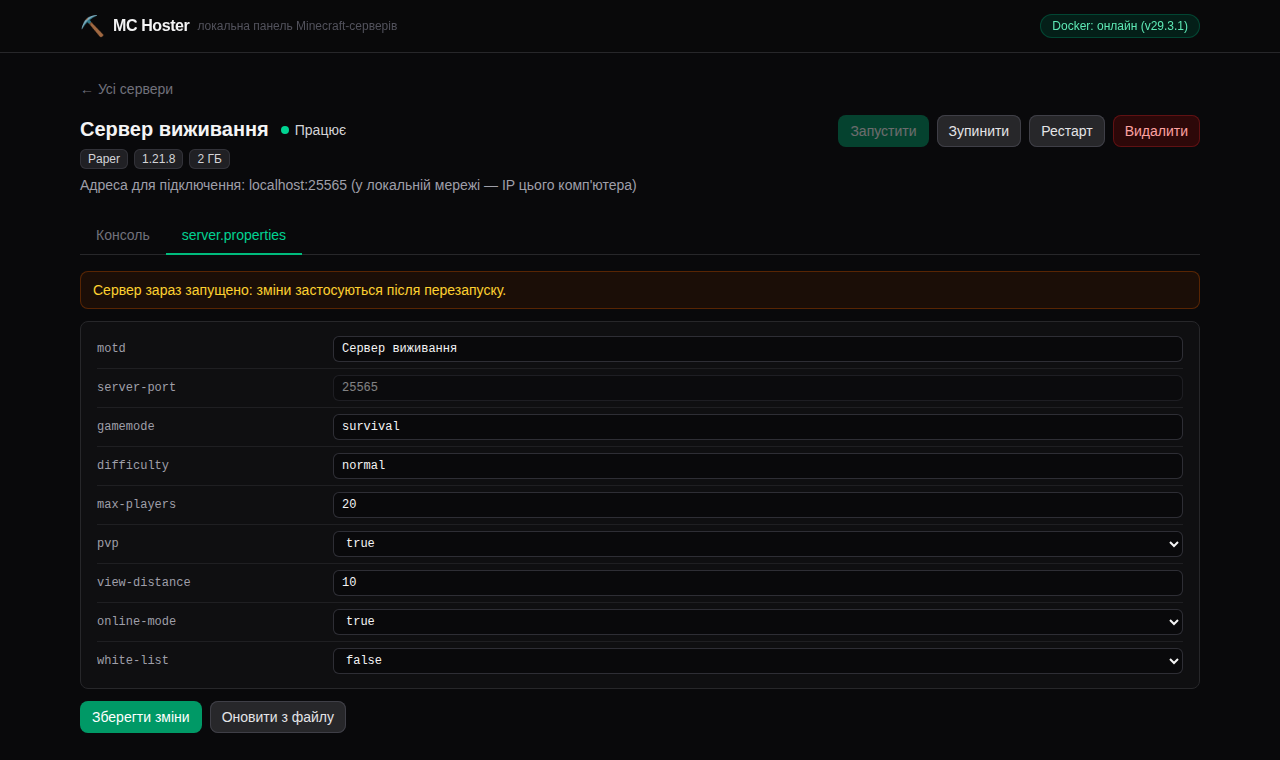
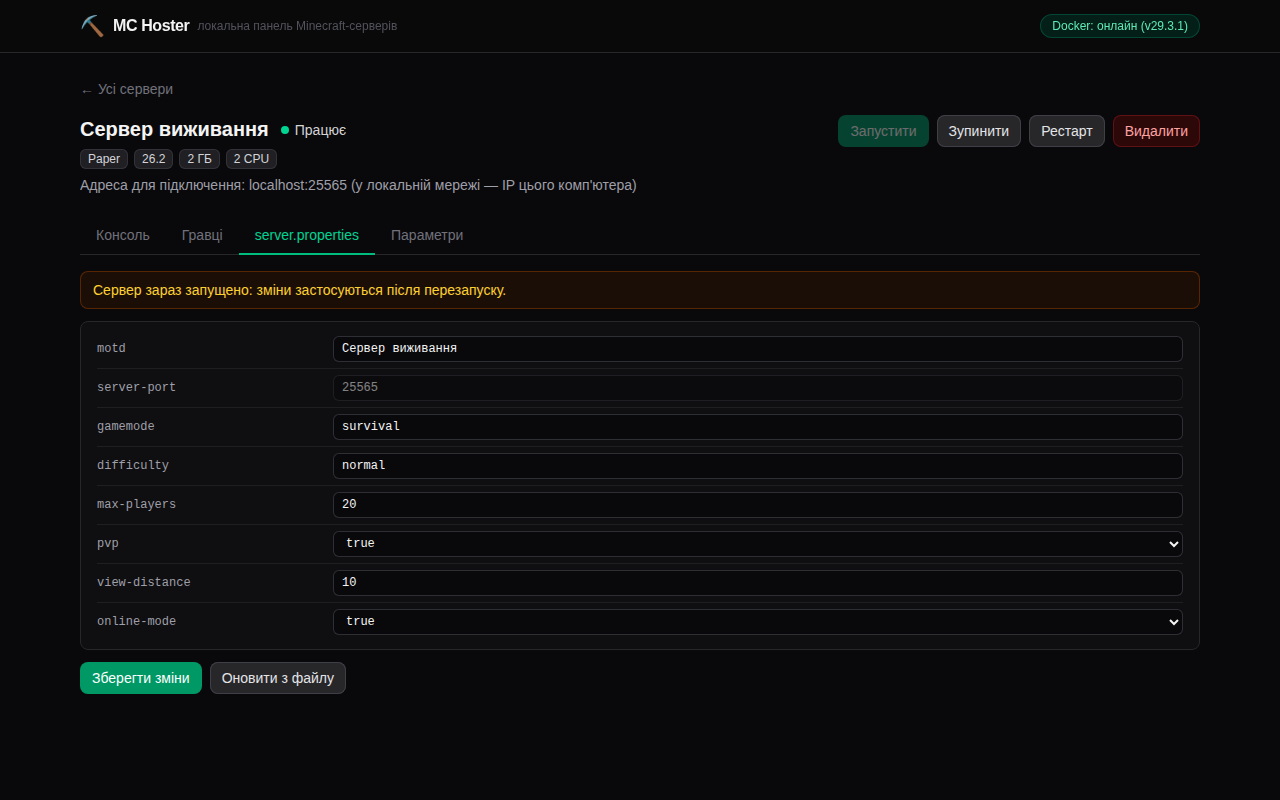
Врахувати нову схему нумерації версій Mojang (26.1, 26.2)
Mojang після 1.21.x перейшли на рік-орієнтовану нумерацію без префікса «1.»:
далі йдуть 26.1, 26.2 тощо. Раніше приклади й тестові скріншоти показували
неіснуючу «1.26.2».

- resolveImageForVersion: нова схема ("26.2", "26.1.1") і нечислові версії →
  тег latest (новітня Java); стара "1.x" — як була (java8/17/21)
- фолбек-список версій оновлено (26.2, 26.1, 1.21.11, …)
- приклади версій у підказках/помилках/типах: 26.2 замість вигаданої 1.26.2
- README: рядок про вибір Java пояснює нову схему
- перезнято скріншоти майстра/дашборда/гравців/properties із коректними
  версіями (26.2, 26.1, 1.21.11 у списку)

NeoForge-маппінг уже толерантний до нової схеми (кандидат «26.2» звіряється
зі списком релізів Mojang), окремих змін не потребує.

Claude-Session: https://claude.ai/code/session_01STJUBpJNaT55nXvuKZLG6k

diff --git a/backend/src/minecraft/images.ts b/backend/src/minecraft/images.ts
@@ -25,25 +25,32 @@ export const MANAGED_LABEL = 'mc-hoster.managed';
 export const SERVER_ID_LABEL = 'mc-hoster.server-id';
 
 /**
- * Підбирає тег образу з відповідною версією Java під версію Minecraft:
+ * Підбирає тег образу з відповідною версією Java під версію Minecraft.
+ *
+ * Стара схема нумерації "1.MINOR.PATCH":
  *   до 1.16.x включно — Java 8;  1.17.x — Java 17 (мінімум 16);
  *   1.18–1.20.4 — Java 17;       1.20.5–1.21.x — Java 21.
- * Для новіших за 1.21 і для нечислових версій (LATEST, снапшоти, нові схеми
- * нумерації) беремо latest — цей тег itzg завжди несе найновішу Java.
+ *
+ * Нова схема Mojang (з кінця 2025 року, після 1.21.x — рік-орієнтована:
+ * "26.1", "26.2", …) вимагає Java 21+, тож для неї беремо latest.
+ * Так само latest для нечислових версій (LATEST, снапшоти) — цей тег itzg
+ * завжди несе найновішу підтримувану Java.
  */
 export function resolveImageForVersion(version: string): string {
-  const match = /^1\.(\d+)(?:\.(\d+))?$/.exec(version.trim());
-  if (!match) return `${IMAGE_REPO}:latest`;
+  const trimmed = version.trim();
+  const legacy = /^1\.(\d+)(?:\.(\d+))?$/.exec(trimmed);
 
-  const minor = Number(match[1]);
-  const patch = Number(match[2] ?? '0');
+  // Нова схема ("26.2", "26.1.1") або будь-що нечислове → latest (новітня Java).
+  if (!legacy) return `${IMAGE_REPO}:latest`;
+
+  const minor = Number(legacy[1]);
+  const patch = Number(legacy[2] ?? '0');
 
   let tag: string;
   if (minor <= 16) tag = 'java8-multiarch';
   else if (minor <= 19) tag = 'java17';
   else if (minor === 20) tag = patch >= 5 ? 'java21' : 'java17';
-  else if (minor === 21) tag = 'java21';
-  else tag = 'latest'; // майбутні версії можуть вимагати новішої Java
+  else tag = 'java21'; // 1.21.x
 
   return `${IMAGE_REPO}:${tag}`;
 }

diff --git a/frontend/src/modals.ts b/frontend/src/modals.ts
@@ -550,7 +550,7 @@ export function openCreateServerModal(suggestedPort: number, onCreated: () => vo
         allVersions = result.versions;
         versionsSource = result.source;
         versionInput.placeholder =
-          result.versions.find((v) => isStable(v)) ?? result.versions[0] ?? '1.21.8';
+          result.versions.find((v) => isStable(v)) ?? result.versions[0] ?? '26.2';
         updateVersionHint();
         refreshDropdown(document.activeElement === versionInput);
         // Якщо версія вже була обрана (повернулися «Назад») — одразу перевіримо ядро.
@@ -570,7 +570,7 @@ export function openCreateServerModal(suggestedPort: number, onCreated: () => vo
       onClick: () => {
         const version = versionInput.value.trim();
         if (!VERSION_PATTERN.test(version)) {
-          showError('Вкажіть коректну версію гри (наприклад, 1.21.8)');
+          showError('Вкажіть коректну версію гри (наприклад, 26.2 або 1.21.8)');
           versionInput.focus();
           return;
         }

diff --git a/backend/src/minecraft/versionCatalog.ts b/backend/src/minecraft/versionCatalog.ts
@@ -55,8 +55,11 @@ const FETCH_TIMEOUT_MS = 8000;
  * нізвідки), тому UI при source='fallback' показує підказку і дозволяє ввести
  * будь-яку версію вручну.
  */
+// Порядок — від найновіших. Врахована нова рік-орієнтована схема Mojang
+// ("26.2", "26.1", …), що йде після 1.21.x.
 const FALLBACK_GAME_VERSIONS = [
-  '1.21.8', '1.21.7', '1.21.6', '1.21.5', '1.21.4', '1.21.3', '1.21.1', '1.21',
+  '26.2', '26.1',
+  '1.21.11', '1.21.10', '1.21.9', '1.21.8', '1.21.5', '1.21.4', '1.21.1', '1.21',
   '1.20.6', '1.20.4', '1.20.2', '1.20.1',
   '1.19.4', '1.19.2', '1.18.2', '1.17.1', '1.16.5', '1.12.2', '1.8.8',
 ];

diff --git a/backend/src/types.ts b/backend/src/types.ts
@@ -32,7 +32,7 @@ export interface ServerRecord {
   id: string;
   name: string;
   kind: ServerKind;
-  /** Версія Minecraft ("1.21.8", "LATEST" тощо) — передається в образ як VERSION. */
+  /** Версія Minecraft ("26.2", "1.21.8", "LATEST" тощо) — передається в образ як VERSION. */
   version: string;
   /**
    * Версія ядра: для PAPER — номер білда (env PAPER_BUILD),

diff --git a/backend/src/routes/servers.ts b/backend/src/routes/servers.ts
@@ -22,7 +22,7 @@ const createServerSchema = z.object({
   version: z
     .string()
     .trim()
-    .min(1, 'Вкажіть версію (наприклад, 1.21.8 або LATEST)')
+    .min(1, 'Вкажіть версію (наприклад, 26.2 або 1.21.8)')
     .max(32)
     .regex(/^[A-Za-z0-9._-]+$/, 'Недопустимий формат версії'),
   coreVersion: z

diff --git a/README.md b/README.md
@@ -472,7 +472,7 @@ sequenceDiagram
 | Питання | Рішення |
 | --- | --- |
 | Звідки береться jar сервера | Образ `itzg/minecraft-server` завантажує його сам (`TYPE`, `VERSION` у env). Панель лише тягне образ через Docker API |
-| Версія Java | `resolveImageForVersion()`: ≤1.16 → `java8-multiarch`, 1.17–1.20.4 → `java17`, 1.20.5+ → `java21`, нечислові (`LATEST`) → `latest` |
+| Версія Java | `resolveImageForVersion()`: ≤1.16 → `java8-multiarch`, 1.17–1.20.4 → `java17`, 1.20.5–1.21.x → `java21`. Нова рік-орієнтована схема Mojang (після 1.21.x: `26.1`, `26.2`, …) і нечислові версії (`LATEST`, снапшоти) → `latest` (новітня Java) |
 | Ізоляція | Один сервер = один контейнер: ліміт пам'яті, свій порт, RestartPolicy `unless-stopped` |
 | Файли сервера | Bind-mount `<dataRoot>/servers/<id>` → `/data` контейнера |
 | Коректна зупинка | `docker stop` з таймаутом 60 с; всередині образу `mc-server-runner` перетворює SIGTERM на команду `stop` (світ зберігається) |
